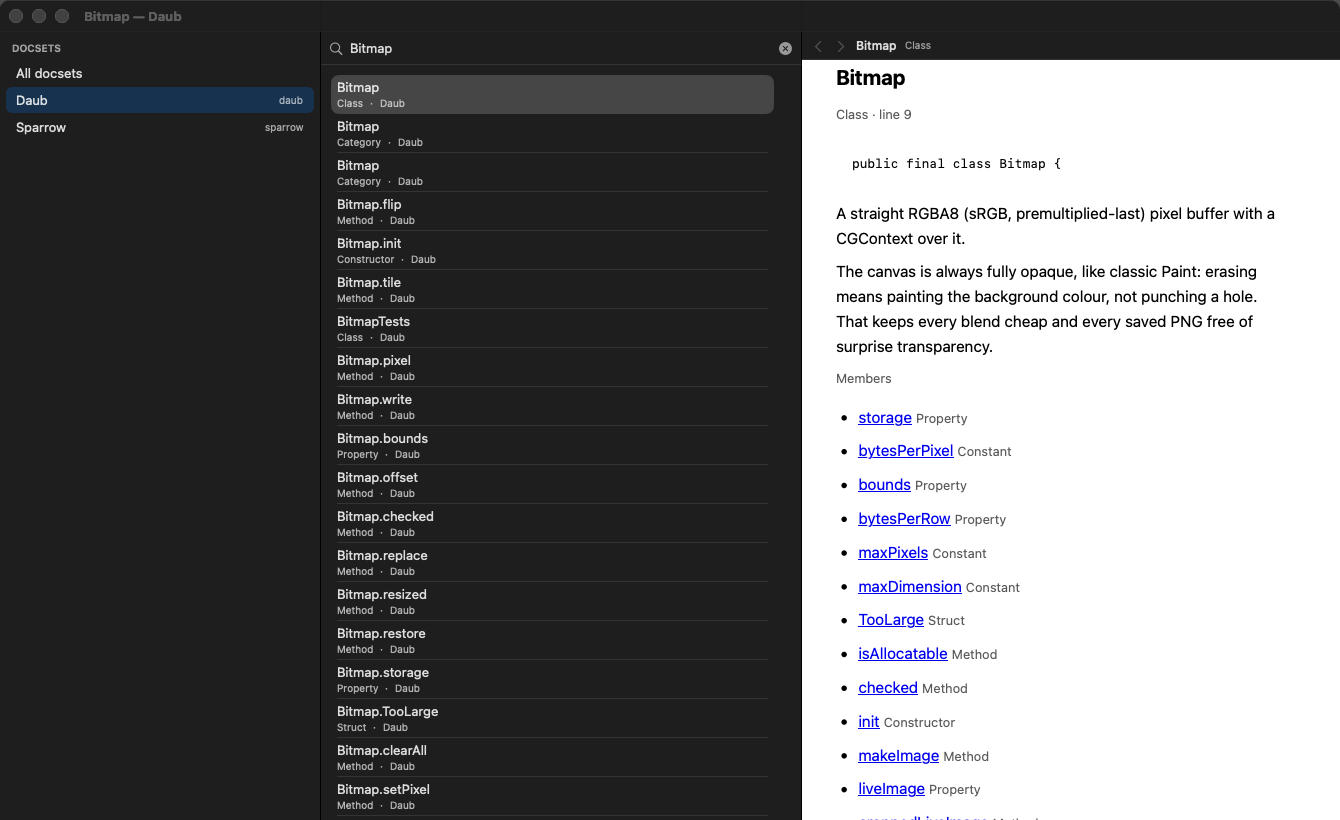
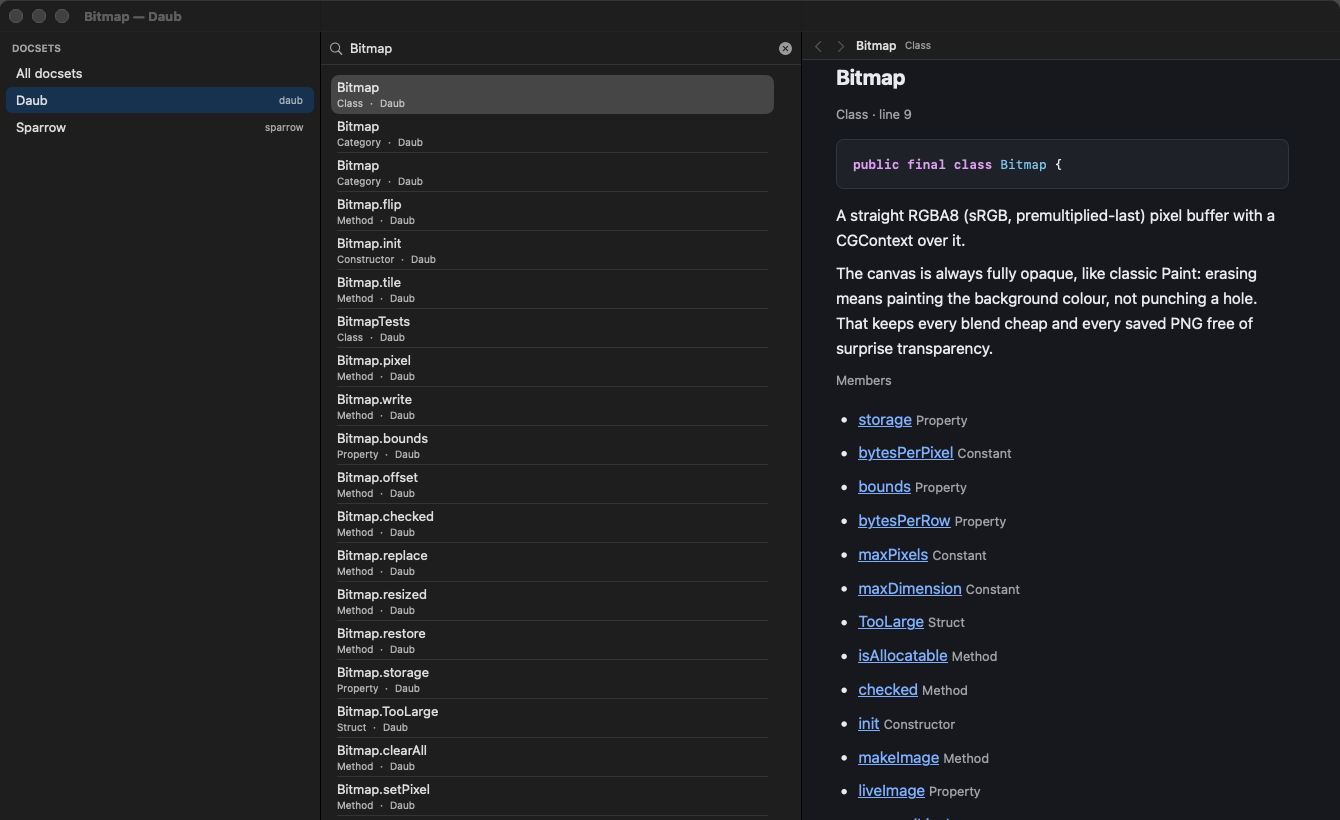
a blank page is a failure, not a screenshot
The picture at the top of the README was a white rectangle where the
page should be. Two causes, both fixed.

The web view sometimes hands back a sheet of white when asked for a
snapshot before it has drawn. The harness now looks at what came back,
asks again while it is one flat colour, and exits non-zero rather than
writing a blank picture out.

The reading column was centred, which on a wide window leaves a hand's
width of empty either side of the text; it is left-aligned now with a
slightly wider measure.

Fixing that put a Swift comment inside a CSS string, which drops the
first rule and leaves generated pages in the browser's default serif at
full width. The typography is checked twice now: a unit test that the
stylesheet is CSS and not Swift, and the theme self-test measuring the
computed font on a page Docent generated, not only on a vendor's page
where the mistake is invisible. Breaking the stylesheet on purpose fails
both.

diff --git a/Sources/DocentApp/Screenshot.swift b/Sources/DocentApp/Screenshot.swift
@@ -40,6 +40,10 @@ enum Screenshot {
             waitForPage {
                 snapshotWebView {
                     capture(to: URL(fileURLWithPath: path))
+                    if blank {
+                        note("refusing to call that a screenshot")
+                        exit(3)
+                    }
                     NSApp.terminate(nil)
                 }
             }
@@ -54,7 +58,12 @@ enum Screenshot {
               let webView = findWebView(in: root), attempt < 60 else {
             // Out of patience: say so, so a blank picture is a loud failure and not a
             // README image nobody looked at.
-            if attempt >= 60 { note("the page never drew anything — the picture will be blank") }
+            if attempt >= 60 {
+                // A blank picture is a failure, not a picture: the README carried one for a
+                // day because the harness wrote it without complaining.
+                note("the page never drew anything")
+                blank = true
+            }
             return DispatchQueue.main.asyncAfter(deadline: .now() + 0.5, execute: done)
         }
         webView.evaluateJavaScript("document.readyState === 'complete' && document.body.innerText.length > 40") { value, _ in
@@ -114,12 +123,21 @@ enum Screenshot {
         // A WKWebView draws in another process, so the window's layer tree has a hole where
         // the page should be. Ask the web view for its own snapshot and paste it in.
         if let image = webSnapshot, let webView = findWebView(in: root) {
-            let frame = webView.convert(webView.bounds, to: root)
+            // The bitmap context has its origin at the bottom left. A view tree may not:
+            // when the root is flipped, the rect has to be turned over or the page is
+            // painted off the top of the picture and the picture comes out blank.
+            var frame = webView.convert(webView.bounds, to: root)
+            if root.isFlipped {
+                frame.origin.y = root.bounds.height - frame.maxY
+            }
             NSGraphicsContext.saveGraphicsState()
             NSGraphicsContext.current = context
             context.cgContext.scaleBy(x: scale, y: scale)
             image.draw(in: frame, from: .zero, operation: .sourceOver, fraction: 1)
             NSGraphicsContext.restoreGraphicsState()
+            note("page drawn at \(Int(frame.origin.x)),\(Int(frame.origin.y)) \(Int(frame.width))×\(Int(frame.height)) of \(Int(size.width))×\(Int(size.height)) (flipped: \(root.isFlipped))")
+        } else {
+            note("no page snapshot to composite")
         }
 
         guard let data = rep.representation(using: .png, properties: [:]) else { return note("no png") }
@@ -132,8 +150,30 @@ enum Screenshot {
     }
 
     private static var webSnapshot: NSImage?
+    /// Set when the page never drew; the harness exits non-zero so the picture is not used.
+    private static var blank = false
 
-    private static func snapshotWebView(then done: @escaping () -> Void) {
+    /// Every pixel the same colour: the web view handed back a sheet of white instead of
+    /// the page. It happens when the snapshot is taken before the view has been drawn, and
+    /// it is the reason a blank picture sat in the README for a day.
+    static func isBlank(_ image: NSImage) -> Bool {
+        guard let tiff = image.tiffRepresentation, let rep = NSBitmapImageRep(data: tiff),
+              rep.pixelsWide > 8, rep.pixelsHigh > 8 else { return true }
+        let first = rep.colorAt(x: 4, y: 4)
+        for x in stride(from: 4, to: rep.pixelsWide - 4, by: max(1, rep.pixelsWide / 24)) {
+            for y in stride(from: 4, to: rep.pixelsHigh - 4, by: max(1, rep.pixelsHigh / 24)) {
+                guard let colour = rep.colorAt(x: x, y: y), let first else { continue }
+                if abs(colour.redComponent - first.redComponent) > 0.02
+                    || abs(colour.greenComponent - first.greenComponent) > 0.02
+                    || abs(colour.blueComponent - first.blueComponent) > 0.02 {
+                    return false
+                }
+            }
+        }
+        return true
+    }
+
+    private static func snapshotWebView(attempt: Int = 0, then done: @escaping () -> Void) {
         guard let window = mainWindow(),
               let root = window.contentView?.superview ?? window.contentView,
               let webView = findWebView(in: root) else { return done() }
@@ -142,6 +182,14 @@ enum Screenshot {
         webView.takeSnapshot(with: configuration) { image, error in
             if let error { note("web snapshot failed: \(error)") }
             if image == nil { note("web snapshot came back empty") }
+            // One flat colour is not a page. Ask again rather than writing it out.
+            if let image, isBlank(image), attempt < 8 {
+                note("the page came back blank; asking again (\(attempt + 1))")
+                return DispatchQueue.main.asyncAfter(deadline: .now() + 0.6) {
+                    snapshotWebView(attempt: attempt + 1, then: done)
+                }
+            }
+            if let image, isBlank(image) { blank = true }
             webSnapshot = image
             if let image, let debug = ProcessInfo.processInfo.environment["DOCENT_SCREENSHOT_WEB"] {
                 if let tiff = image.tiffRepresentation, let rep = NSBitmapImageRep(data: tiff),

diff --git a/Sources/DocentApp/SelfTest.swift b/Sources/DocentApp/SelfTest.swift
@@ -556,8 +556,31 @@ enum SelfTest {
               let location = try? service.location(of: match) else {
             return ["no docsets to paint — set DOCENT_DOCSETS"]
         }
+        // A page Docent generated as well as one from a vendor's docset: the reading
+        // stylesheet is injected into both, but only a generated page carries Docent's own
+        // typography, and a broken stylesheet there is invisible on a vendor page.
+        let generated = (try? service.find("Kerning", limit: 1))?.first
+            .flatMap { found in (try? service.location(of: found)).map { (found, $0) } }
+        if generated == nil {
+            failures.append("no page of Docent's own to check the typography on")
+        }
 
-        for reading in [ReadingTheme.light, .dark] {
+        // The vendor page is where colour and highlighting are measured; the generated one
+        // is where Docent's own typography is. Expecting highlighted code on a page of
+        // prose would fail for the wrong reason.
+        var pages: [(reading: ReadingTheme, match: Match, location: (url: URL, anchor: String?), isOwn: Bool)] = [
+            (.light, match, location, false),
+            (.dark, match, location, false),
+        ]
+        if let generated {
+            pages.append((.light, generated.0, generated.1, true))
+            pages.append((.dark, generated.0, generated.1, true))
+        }
+
+        for page in pages {
+            let reading = page.reading
+            let match = page.match
+            let location = page.location
             let configuration = WKWebViewConfiguration()
             configuration.defaultWebpagePreferences.allowsContentJavaScript = false
             let webView = WKWebView(frame: NSRect(x: 0, y: 0, width: 800, height: 600), configuration: configuration)
@@ -588,17 +611,27 @@ enum SelfTest {
               if(a===null||b===null) return '0|0';
               var ratio=(Math.max(a,b)+0.05)/(Math.min(a,b)+0.05);
               var tokens=document.querySelectorAll('.docent-kw,.docent-str,.docent-com,.docent-num,.docent-type').length;
-              return ratio.toFixed(2)+'|'+tokens;})()
+              // The stylesheet either applied or it did not: a page in the browser's
+              // default serif at full width is what a broken one looks like.
+              var serif=/times|serif/i.test(s.fontFamily) && !/sans-serif/i.test(s.fontFamily);
+              return ratio.toFixed(2)+'|'+tokens+'|'+(serif?'serif':'ok')+'|'+s.maxWidth;})()
             """
             let answer = evaluate(measure, in: webView) as? String ?? "0|0"
             let parts = answer.split(separator: "|")
             let ratio = Double(parts.first ?? "0") ?? 0
-            let tokens = Int(parts.last ?? "0") ?? 0
-
+            let tokens = parts.count > 1 ? Int(parts[1]) ?? 0 : 0
             if ratio < 7 {
                 failures.append("\(reading): the page ends up at \(ratio):1 contrast — the trial called that unreadable")
             }
-            if tokens == 0 {
+            if page.isOwn {
+                // Docent wrote this page, so its own stylesheet has to be in force.
+                if parts.count > 2, parts[2] == "serif" {
+                    failures.append("\(reading): a page Docent generated is in the browser's default serif — the typography did not parse")
+                }
+                if parts.count > 3, parts[3] == "none" {
+                    failures.append("\(reading): a page Docent generated has no measure — the typography did not parse")
+                }
+            } else if tokens == 0 {
                 failures.append("\(reading): no code was highlighted on a page that has a code block")
             }
         }

diff --git a/Tests/DocentKitTests/ReadingThemeTests.swift b/Tests/DocentKitTests/ReadingThemeTests.swift
@@ -115,3 +115,19 @@ extension ReadingThemeTests {
         }
     }
 }
+
+extension ReadingThemeTests {
+    /// The typography is CSS, not Swift: a `///` comment inside that string is not a
+    /// comment, it is a parse error that drops the first rule and leaves the page in the
+    /// browser's default serif at full width.
+    func testTheTypographyIsCSSAndNotSwift() {
+        XCTAssertFalse(Markdown.typography.contains("///"), Markdown.typography)
+        for line in Markdown.typography.split(separator: "\n") {
+            let trimmed = line.trimmingCharacters(in: .whitespaces)
+            guard trimmed.hasPrefix("/") else { continue }
+            XCTAssertTrue(trimmed.hasPrefix("/*") || trimmed.hasPrefix("*"),
+                          "not a CSS comment: \(trimmed)")
+        }
+        XCTAssertTrue(Markdown.typography.contains("-apple-system"), "the body font is gone")
+    }
+}

diff --git a/Sources/DocentKit/Markdown.swift b/Sources/DocentKit/Markdown.swift
@@ -150,8 +150,10 @@ public enum Markdown {
     /// generated page renders in the browser's default serif at full window width, which is
     /// unreadable next to a real docset.
     public static let typography = """
+    /* Left-aligned rather than centred: a reading column centred in a wide window leaves a
+       hand's width of empty either side of the text and reads as a broken layout. */
     body { font: 15.5px/1.65 -apple-system, BlinkMacSystemFont, "SF Pro Text", Helvetica, Arial, sans-serif;
-           margin: 0 auto; padding: 28px 34px 64px; max-width: 46rem; }
+           margin: 0; padding: 28px 34px 64px; max-width: 52rem; }
     h1 { font-size: 1.8rem; margin: 0 0 1rem; line-height: 1.2; }
     h2 { font-size: 1.3rem; margin: 2rem 0 .6rem; }
     h3 { font-size: 1.08rem; margin: 1.5rem 0 .4rem; }
